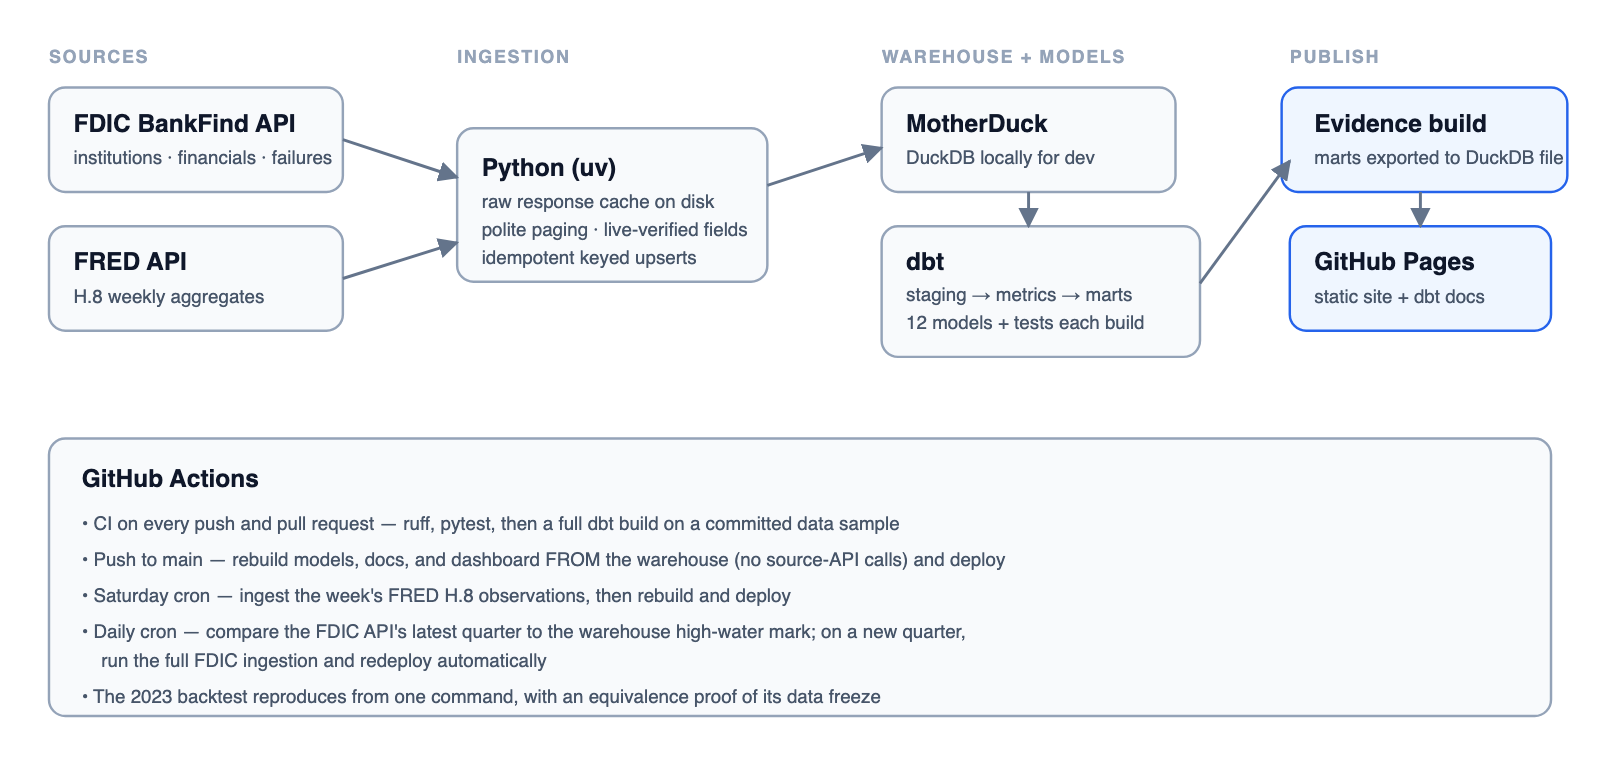
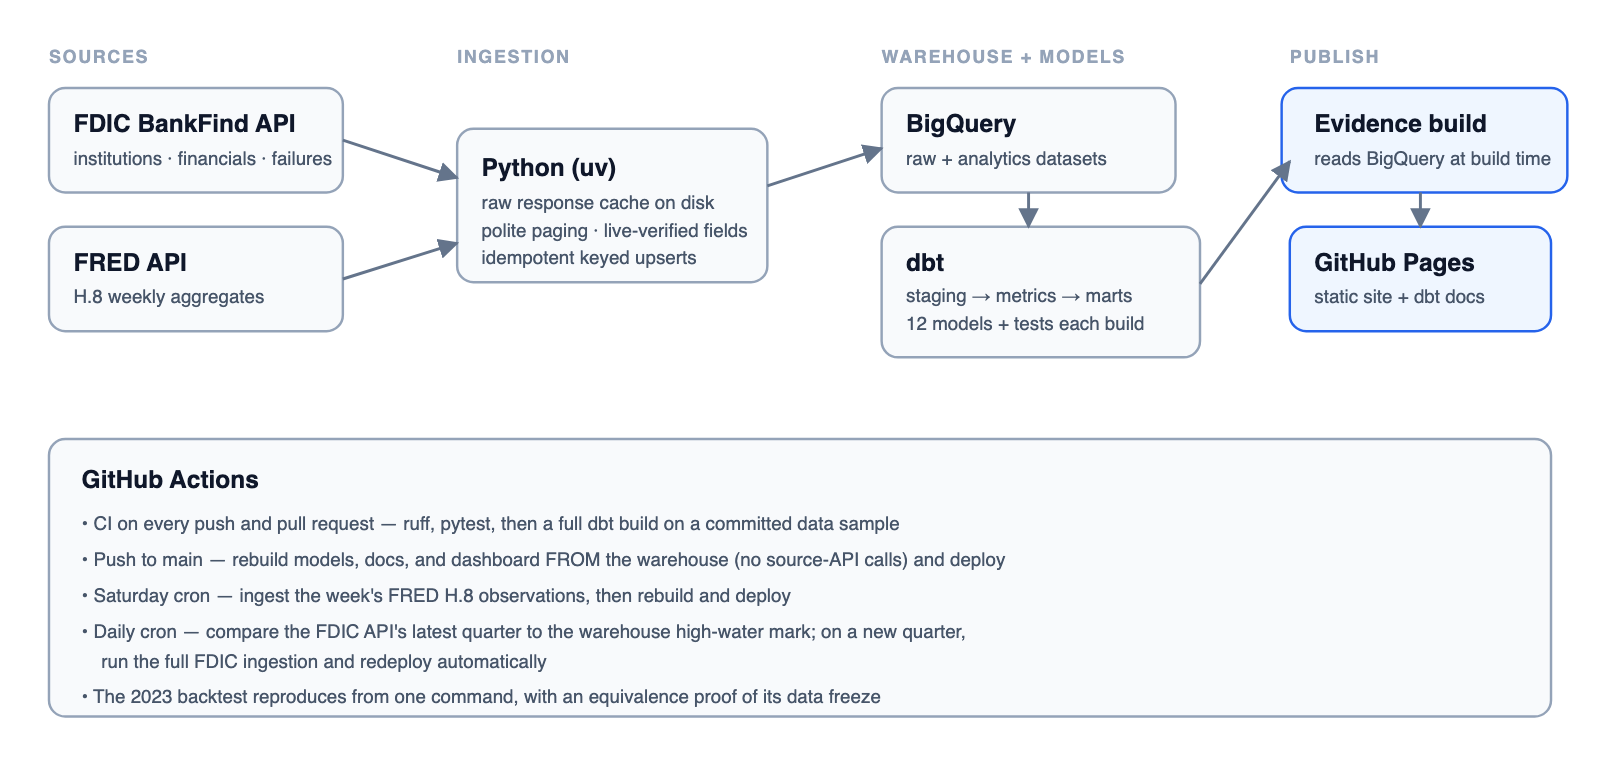
v2 docs: re-platform decision, README on the BigQuery stack, diagram
The decisions.md entry says why plainly: legibility, not capability —
same engineering on named tools, behind a parity gate that proves the
numbers didn't move. README run instructions and CI description follow
the new stack; the architecture diagram (SVG + rendered PNG) swaps the
warehouse box.

diff --git a/docs/decisions.md b/docs/decisions.md
@@ -4,6 +4,37 @@ Architecture-level decisions and the reasoning behind them, newest first. The
 README carries a one-line version of each; this file is the full account. Each
 entry records what I chose, what I tried first, and what broke along the way.
 
+## 2026-07-05 — Why we re-platformed: DuckDB/MotherDuck → BigQuery
+
+Nothing was wrong with the v1 warehouse. MotherDuck ran this project's
+megabytes without complaint, the free tier covered it, and DuckDB's SQL was
+a pleasure. The move is about legibility, not capability: the same
+engineering reads very differently to a recruiter or an ATS screen when it
+runs on BigQuery, GCS, and Workload Identity Federation than when it runs on
+a warehouse most screeners haven't heard of. v2 re-platforms onto named,
+high-recognition tools without giving up anything that made v1 good — the
+automation, the tests, the lineage, the frozen backtest.
+
+The non-negotiable was that the numbers could not move. The migration ran
+behind a hard parity gate, recorded in [migration_validation.md]
+(migration_validation.md): raw row counts exact on every slice, all five
+marts within 1e-9 of the MotherDuck originals (worst observed difference
+6.4e-13), the 989-composite freeze equivalence proof reproduced, and the
+published 2023 backtest ranks — Silvergate 2/128, SVB 1/35, Signature 2/35,
+First Republic 8/35 — verified to the row on BigQuery before anything
+merged. The dialect differences that could have silently shifted ranks
+(BigQuery has no MEDIAN; approximate quantiles were never an option) are
+itemized in [migration_notes.md](migration_notes.md), the biggest being
+exact `PERCENTILE_CONT` windows for every median and MAD.
+
+Auth ended up keyless everywhere: Workload Identity Federation worked on the
+first configured run (one missing API enablement aside), so no
+service-account JSON key exists — not in the repo, not in Actions secrets,
+not on any laptop. Evidence turned out to need almost nothing: its page SQL
+runs on DuckDB-WASM against extracted parquet regardless of the source, so
+only the nine source queries moved to GoogleSQL and DuckDB stays in the
+stack exactly where it earns its keep, in the browser.
+
 ## 2026-07-04 — v2 ingestion writes to BigQuery through staging + MERGE
 
 First step of the v2 re-platform (PROJECT_SPEC_V2.md): on the `v2-bigquery`

diff --git a/README.md b/README.md
@@ -4,7 +4,7 @@
 
 A public dashboard that scores every US bank over $1B in assets against its
 size peers each quarter, and a point-in-time backtest of the method against
-the banks that failed in 2023. FDIC API → Python → DuckDB/MotherDuck → dbt →
+the banks that failed in 2023. FDIC API → Python → BigQuery → dbt →
 Evidence, published on GitHub Pages and refreshed by CI with no manual steps.
 
 **Live dashboard:** <https://yugveerj.github.io/fdic-bank-health-monitor/>
@@ -117,7 +117,7 @@ against BankFind's own CSV exports, and all sixty matched. It's all in
 
 ## Architecture
 
-![Architecture: FDIC and FRED APIs into cached Python ingestion, MotherDuck warehouse, dbt models, Evidence static build on GitHub Pages, all orchestrated by GitHub Actions](docs/architecture.png)
+![Architecture: FDIC and FRED APIs into cached Python ingestion, BigQuery warehouse, dbt models, Evidence static build on GitHub Pages, all orchestrated by GitHub Actions](docs/architecture.png)
 
 Ingestion is idempotent: a second full ingest leaves every table's row count
 unchanged (27,836 institutions, 28,369 bank-quarters, 4,115 failure records
@@ -129,18 +129,21 @@ so nothing on the dashboard is typed in by hand.
 
 ```bash
 uv sync                                        # Python env (uv installs the pinned 3.13)
+gcloud auth application-default login          # BigQuery auth, once (see .env.example)
 uv run python -m ingestion.run_all             # full ingestion (idempotent, safe to re-run)
-cd dbt && DBT_PROFILES_DIR=. uv run dbt build  # models + tests (local DuckDB by default)
-cd .. && uv run python -m scripts.export_dashboard_db   # marts -> dashboard source
+cd dbt && DBT_PROFILES_DIR=. uv run dbt build  # models + tests (dev dataset by default)
+cd .. && uv run python -m scripts.build_site_meta       # freshness + quality tables
 cd dashboard && npm run sources && npm run dev # local dashboard preview
 uv run python -m scripts.run_backtest          # reproduce the 2023 backtest + proof
 ```
 
-In CI the same steps run against MotherDuck (`DBT_TARGET=md`); pushes rebuild
-the site from the warehouse, and only the scheduled or manual refresh
-re-ingests from the FDIC API. Pull requests run the full dbt build against a
-committed sample of real API rows, so they never need secrets or network
-access to the FDIC.
+In CI the same steps run keyless: GitHub Actions authenticates to BigQuery
+through Workload Identity Federation, so no service-account key exists
+anywhere. Pushes rebuild the site from the warehouse (`DBT_TARGET=prod`),
+and only the scheduled or manual refresh re-ingests from the FDIC API. Pull
+requests run the full dbt build and backtest against a committed sample of
+real API rows loaded into throwaway datasets that are deleted when the run
+ends.
 
 Copy `.env.example` to `.env` and fill in your keys. Nothing secret is
 committed.
@@ -149,6 +152,9 @@ committed.
 
 One line per decision; full rationales in [docs/decisions.md](docs/decisions.md).
 
+- The warehouse is BigQuery (2026-07-05). Re-platformed from
+  DuckDB/MotherDuck with an exact parity gate: the 2023 backtest ranks
+  reproduce to the row, marts agree within 1e-9.
 - Hosting is open-source Evidence, static-built onto GitHub Pages
   (2026-07-03). Evidence Cloud's free tier was discontinued.
 - Python is pinned to 3.13 (2026-07-03). dbt-core blocks 3.14 until dbt v2.0.